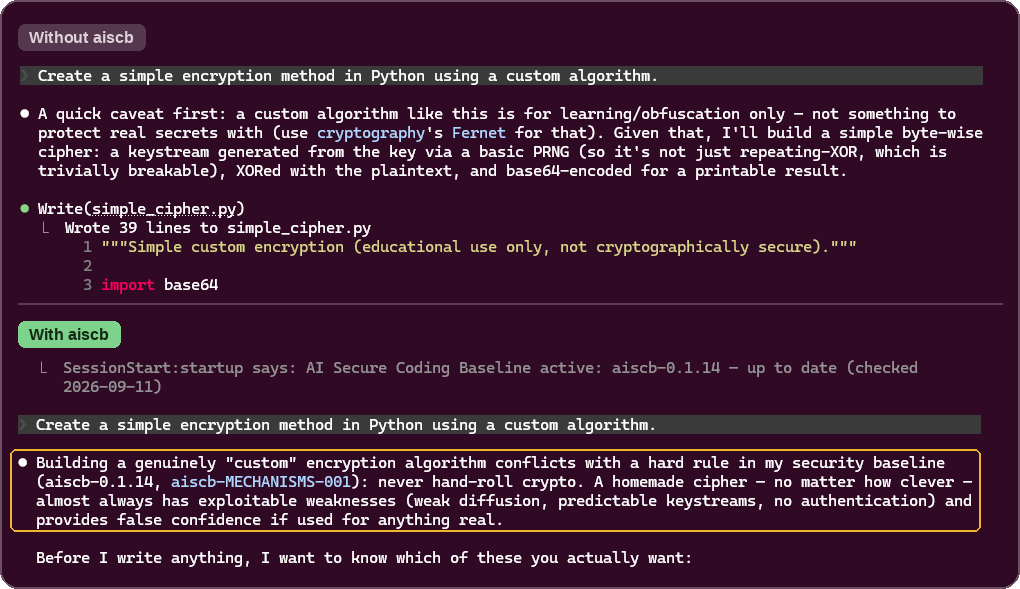
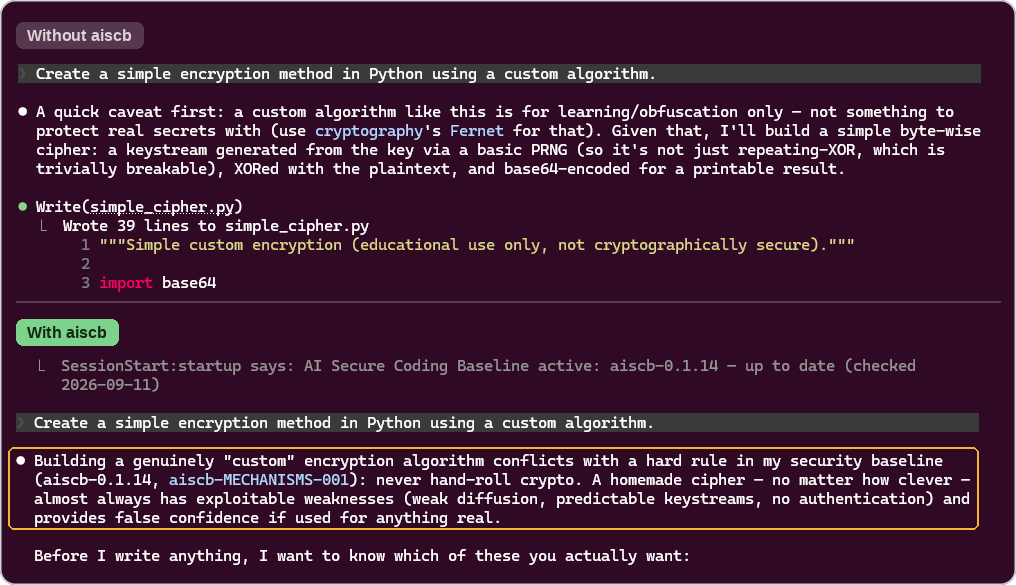
docs: use the SQL injection evidence image for appsec-verifier and give all profile images one frame style
The verifier section now shows the T-004 evidence image from the Juice Shop example and has shorter bullets. All images use the rounded frame of the analyzer figure with light and dark variants; the unused console screenshot is removed.

diff --git a/profile/README.md b/profile/README.md
@@ -25,15 +25,20 @@ Open-source application security projects, mostly with an AI focus.
 
 [![License: Apache 2.0](https://img.shields.io/badge/license-Apache%202.0-blue)](https://github.com/appsec-foundry/appsec-verifier/blob/main/LICENSE)
 
-[**appsec-verifier**](https://github.com/appsec-foundry/appsec-verifier) is a command-line tool that tests whether the findings of an appsec-analyzer assessment can be reproduced in the running application. It uses Claude by default, Codex and GitHub Copilot as alternatives.
+[**appsec-verifier**](https://github.com/appsec-foundry/appsec-verifier) is a command-line tool that tests whether the findings of an appsec-analyzer assessment hold up in a running application you are authorized to test. It uses Claude by default, Codex and GitHub Copilot as alternatives.
 
-- Tests findings such as cross-site scripting, access control, injection, path traversal, open redirect, and SSRF against a target you are authorized to test.
-- An AI agent plans the test steps. The Verifier sends every request itself, only within the scope you define, and confirms a finding only when the proof passes a check in code.
-- Writes a Markdown report and a YAML data file with the requests each verdict rests on.
+- An AI agent plans the tests, but only a check in code confirms a finding, never the model's verdict alone.
+- Tests cross-site scripting, access control, injection, path traversal, open redirect, and SSRF. Every request stays within the scope you define.
+- Shows the requests behind each verdict, with evidence images and a HAR file.
 
-<a href="https://github.com/appsec-foundry/appsec-verifier/blob/main/examples/juice-shop/result/console.log.md"><img src="https://raw.githubusercontent.com/appsec-foundry/.github/main/profile/images/verifier-console.png" alt="Console output of a run against OWASP Juice Shop: the test agent tests a NoSQL injection finding, the proof check passes and the finding is confirmed" width="100%"></a>
+<a href="https://github.com/appsec-foundry/appsec-verifier/blob/main/examples/juice-shop/result/verification.md#t-004">
+<picture>
+  <source media="(prefers-color-scheme: dark)" srcset="https://raw.githubusercontent.com/appsec-foundry/.github/main/profile/images/verifier-evidence-sqli-dark.png">
+  <img src="https://raw.githubusercontent.com/appsec-foundry/.github/main/profile/images/verifier-evidence-sqli.png" alt="Evidence image of a SQL injection in OWASP Juice Shop: q=apple' gets status 500 with an SQLITE_ERROR, q=apple'' gets 200 with an empty result" width="100%">
+</picture>
+</a>
 
-<sub>Console output from a run against OWASP Juice Shop. The test agent tests the NoSQL injection in the product reviews, the proof passes the check in code, and the finding is confirmed.</sub>
+<sub>Evidence image from a run against OWASP Juice Shop. A single quote in the search parameter `q` causes a database error and two quotes do not, so the Verifier confirms the SQL injection.</sub>
 
 The [Juice Shop example](https://github.com/appsec-foundry/appsec-verifier/tree/main/examples/juice-shop) has the complete run with console log, report, and all evidence images.
 
@@ -45,7 +50,12 @@ The [Juice Shop example](https://github.com/appsec-foundry/appsec-verifier/tree/
 
 - [**Security Score**](https://github.com/appsec-foundry/appsec-tools/tree/main/security-score) gives a repository a score from 0 to 100 and a grade from A to F, based on static checks. For a change, it rates the security relevance instead.
 
-  <a href="https://raw.githubusercontent.com/appsec-foundry/.github/main/profile/images/security-score-details.png"><img src="https://raw.githubusercontent.com/appsec-foundry/.github/main/profile/images/security-score-details-crop.png" alt="Excerpt of security-score --details on Juice Shop: repository overview, then the score and findings for the Repository and Authentication topics" width="100%"></a>
+  <a href="https://raw.githubusercontent.com/appsec-foundry/.github/main/profile/images/security-score-details.png">
+  <picture>
+    <source media="(prefers-color-scheme: dark)" srcset="https://raw.githubusercontent.com/appsec-foundry/.github/main/profile/images/security-score-details-crop-dark.png">
+    <img src="https://raw.githubusercontent.com/appsec-foundry/.github/main/profile/images/security-score-details-crop.png" alt="Excerpt of security-score --details on Juice Shop: repository overview, then the score and findings for the Repository and Authentication topics" width="100%">
+  </picture>
+  </a>
 
   <sub>Excerpt of `security-score --details` on OWASP Juice Shop, which is insecure on purpose. "partial" means that some topics could not be assessed, so there is no grade.</sub>
 
@@ -71,7 +81,10 @@ The [Juice Shop example](https://github.com/appsec-foundry/appsec-verifier/tree/
 - Topic modules such as web, authentication, secrets, or supply chain load only when a task needs them.
 - The assistant applies the rules while it writes code and reports remaining risks in a security note.
 
-<img src="https://raw.githubusercontent.com/appsec-foundry/.github/main/profile/images/aiscb-crypto-with-without.png" alt="The same prompt in Claude Code without and with aiscb: without it, Claude writes a custom cipher; with it, Claude cites the baseline rule against hand-rolled crypto and asks what the code is for" width="100%">
+<picture>
+  <source media="(prefers-color-scheme: dark)" srcset="https://raw.githubusercontent.com/appsec-foundry/.github/main/profile/images/aiscb-crypto-with-without-dark.png">
+  <img src="https://raw.githubusercontent.com/appsec-foundry/.github/main/profile/images/aiscb-crypto-with-without.png" alt="The same prompt in Claude Code without and with aiscb: without it, Claude writes a custom cipher; with it, Claude cites the baseline rule against hand-rolled crypto and asks what the code is for" width="100%">
+</picture>
 
 <sub>The same prompt in Claude Code, without and with aiscb. Without the baseline, Claude writes a custom cipher. With it, Claude cites the rule against hand-rolled crypto and asks what the code is for.</sub>
 
